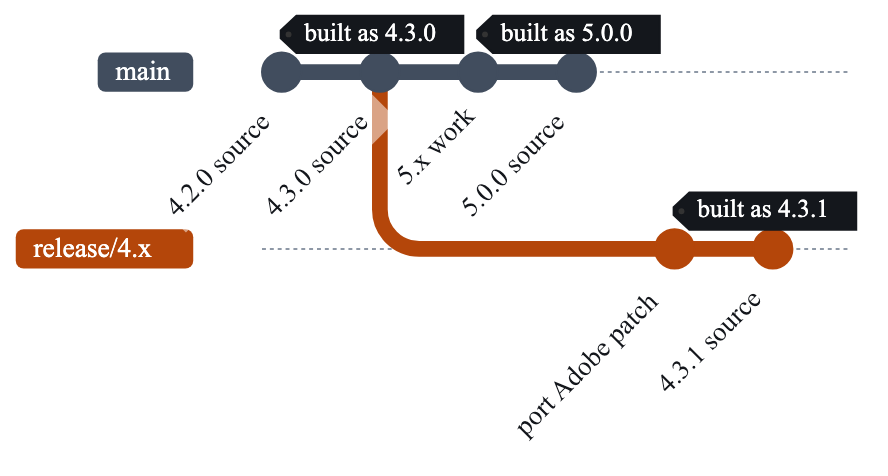
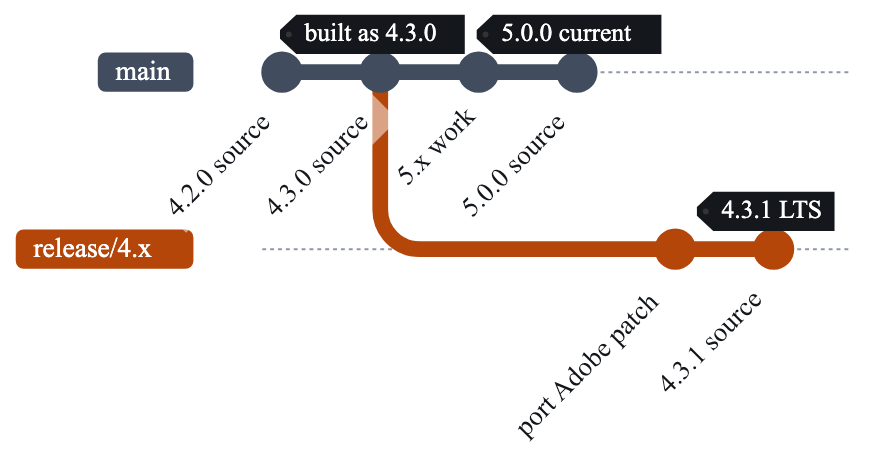
Mark the LTS line in the diagrams
Each Magento base now names which Mage-OS major is its LTS line, and 3.x is
labelled as not being one because it shares 2.4.9 with 4.x.

Claude-Session: https://claude.ai/code/session_0145ePWxG5QhuKfiSjku3SD4

diff --git a/RELEASE-GRACE-WINDOW-PROPOSAL.md b/RELEASE-GRACE-WINDOW-PROPOSAL.md
@@ -38,21 +38,21 @@ that moves to a new Magento feature version is what merchants need time for.
 
 ```mermaid
 gantt
-    title Supported lines follow the upstream base, not the major number
+    title Which Mage-OS major becomes the LTS line
     dateFormat YYYY-MM-DD
     axisFormat %b %Y
 
     section Magento 2.4.8
-    Mage-OS 2.x                              :crit, m2, 2026-01-06, 2026-05-17
-    2.x window, 6 months after 3.0.0         :w2, 2026-06-15, 2026-12-15
+    Mage-OS 2.x  -- LTS line for 2.4.8       :crit, m2, 2026-01-06, 2026-05-17
+    LTS window, 2.3.x security fixes         :w2, 2026-06-15, 2026-12-15
 
     section Magento 2.4.9
-    Mage-OS 3.x                              :active, m3, 2026-06-15, 2027-03-01
-    Mage-OS 4.x, same base, no window needed :active, m4, 2027-03-01, 2027-09-01
-    4.x window, 6 months after 5.0.0         :w4, 2027-09-01, 2028-03-01
+    Mage-OS 3.x  -- not LTS, same base as 4.x :active, m3, 2026-06-15, 2027-03-01
+    Mage-OS 4.x  -- LTS line for 2.4.9        :active, m4, 2027-03-01, 2027-09-01
+    LTS window, 4.3.x security fixes          :w4, 2027-09-01, 2028-03-01
 
     section Magento 2.4.10
-    Mage-OS 5.x                              :active, m5, 2027-09-01, 2028-09-01
+    Mage-OS 5.x  -- current, LTS at 2.4.11    :active, m5, 2027-09-01, 2028-09-01
 ```
 
 Dates after 3.4.0 are illustrative. Two things are load-bearing: only the line
@@ -109,10 +109,10 @@ gitGraph
     branch release/4.x
     checkout main
     commit id: "5.x work"
-    commit id: "5.0.0 source" tag: "built as 5.0.0"
+    commit id: "5.0.0 source" tag: "5.0.0 current"
     checkout release/4.x
     commit id: "port Adobe patch"
-    commit id: "4.3.1 source" tag: "built as 4.3.1"
+    commit id: "4.3.1 source" tag: "4.3.1 LTS"
 ```
 
 1. **At 5.0.0 GA, point `release/4.x` at the commit 4.3.0 was built from** — the
